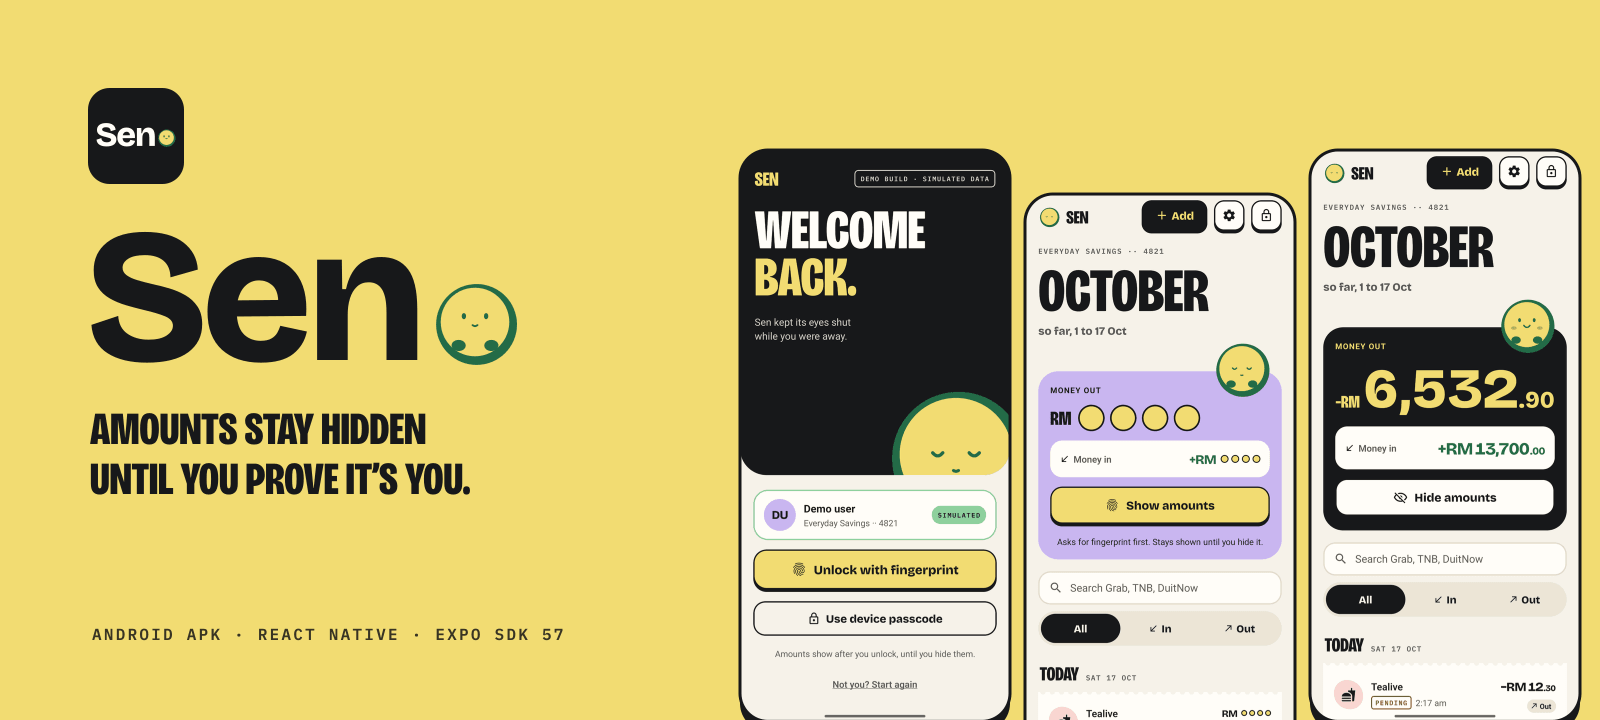
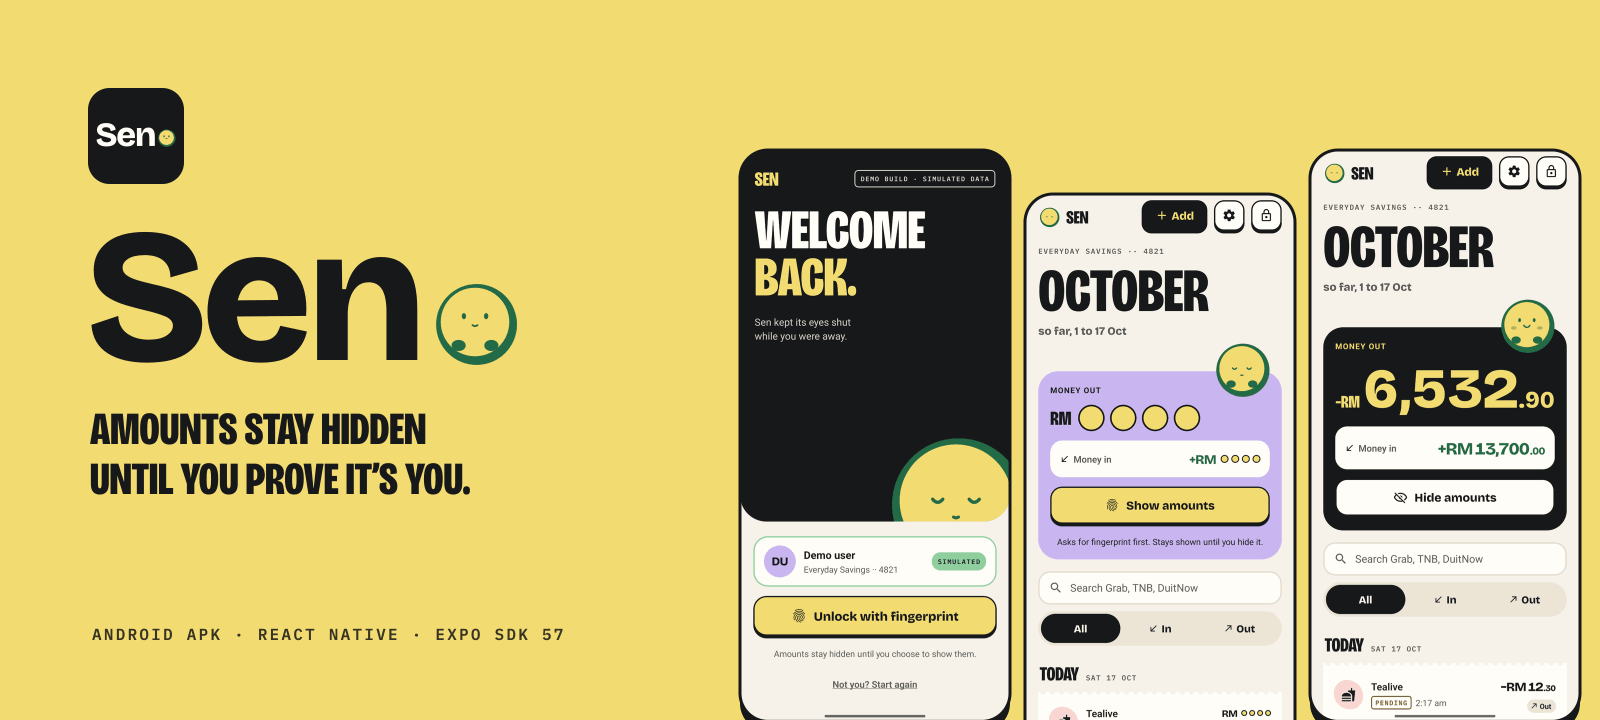
docs: add fresh phone screenshots, drop the stale lock shots and update the test count

Changed region(s): [[0.4375, 0.55, 0.6562, 0.9167]]

diff --git a/README.md b/README.md
@@ -9,7 +9,7 @@
 ![TypeScript strict](https://img.shields.io/badge/TypeScript-strict-3178c6)
 ![Expo SDK 57](https://img.shields.io/badge/Expo-SDK%2057-000020)
 ![Platform Android](https://img.shields.io/badge/platform-Android-3ddc84)
-![1,699 tests](https://img.shields.io/badge/tests-1%2C699%20passing-2e7d32)
+![1,781 tests](https://img.shields.io/badge/tests-1%2C781%20passing-2e7d32)
 
 Sen the coin is the app's mascot. It keeps its eyes shut while amounts are hidden, and it is the friendly part of a security-first app. The security model comes first in this README and the mascot comes after.
 
@@ -112,19 +112,22 @@ Sen has no server, so everything it protects is on the phone. [ARCHITECTURE.md](
 
 ## Features
 
-Screens from a real Android phone. The top row is the light theme and the bottom row is the dark theme.
+Screens from a real Android phone. In the first table the top row is the light theme and the bottom row is the dark theme.
 
 | Hidden amounts | Shown amounts |
 | :---: | :---: |
 | <img src="docs/media/screens/history-masked-light.png" alt="History, light theme, amounts shown as four coins" width="240"> | <img src="docs/media/screens/history-shown-light.png" alt="History, light theme, amounts shown" width="240"> |
 | <img src="docs/media/screens/history-masked-dark.png" alt="History, dark theme, amounts shown as four coins" width="240"> | <img src="docs/media/screens/history-shown-dark.png" alt="History, dark theme, amounts shown" width="240"> |
 
-<!-- SHOT: lock-light, lock-dark. Lock with the single Unlock key (the old shot has the two-key layout) -->
-<!-- SHOT: history-header. History header with the "?" key and the privacy explainer sheet -->
-<!-- SHOT: add-amount. Add amount step with the sizing tiers -->
-<!-- SHOT: add-date. Add details step with the picked date -->
-<!-- SHOT: detail-timeline. Detail with the completed Authorised, Pending, Posted timeline -->
-<!-- SHOT: error-offline. History full error with Retry -->
+| Lock, light | Lock, dark | Privacy explainer |
+| :---: | :---: | :---: |
+| <img src="docs/media/screens/lock-idle-light.png" alt="Lock screen, light theme, with one Unlock with fingerprint key and the demo user card" width="240"> | <img src="docs/media/screens/lock-idle-dark.png" alt="Lock screen, dark theme, with one Unlock with fingerprint key" width="240"> | <img src="docs/media/screens/privacy-light.png" alt="The privacy sheet, How Sen keeps amounts private, listing masked by default, fingerprint to show them, locked when you leave and nothing leaves this phone" width="240"> |
+
+The History header (see the screens above) has three keys: **?** opens the privacy sheet, the padlock locks Sen and the cog opens Settings.
+
+| Add amount | Add details | Detail | Error with Retry |
+| :---: | :---: | :---: | :---: |
+| <img src="docs/media/screens/add-amount-light.png" alt="Add amount step with the keypad, the amount RM 99,999.99 shrunk to its smallest size tier and the over-limit message" width="240"> | <img src="docs/media/screens/add-date-light.png" alt="Add details step with a description, categories and a picked date of Sat 3 Oct" width="240"> | <img src="docs/media/screens/detail-timeline-light.png" alt="Transaction detail for TNB electricity with a completed Authorised, Pending, Posted timeline" width="240"> | <img src="docs/media/screens/error-offline-light.png" alt="History full error saying Cannot load your history, with a Retry key and a Reviewer settings link" width="240"> |
 
 - **Unlock.** One key. With a strong biometric enrolled, Android shows the fingerprint or face sheet, and the same sheet offers the screen lock (PIN, pattern or password). With none, the screen lock opens directly. On Android 9 and 10 a lockout hands over to the screen lock. There is no password inside Sen, and a phone with no screen lock is refused (D28, D40). The 60 second prompt timeout says "the check timed out" (D36).
 - **Masked by default.** Every amount is `RM` and four coins. **Show amounts** asks for biometrics. Amounts re-mask when Sen locks or restarts (D27). Settings' Hide amounts switch reads On after every unlock, and turning it off asks for biometrics.
@@ -150,11 +153,11 @@ Sen reacts to what the security layer is doing. These clips come from a physical
 | Check | Command | What it covers |
 | --- | --- | --- |
 | Everything CI runs | `npm run check` | Typecheck, lint, the Jest suite and the performance benches |
-| Unit and component tests | `npm test` | 1,699 tests in 112 suites on `jest-expo` and React Native Testing Library. The database runs real SQL through a `node:sqlite` adapter |
+| Unit and component tests | `npm test` | 1,781 tests on `jest-expo` and React Native Testing Library. The database runs real SQL through a `node:sqlite` adapter |
 | Motion | `npm run test:motion` | Sen's moments and the shared components, at literal values |
 | Release safety | `npm run release:auth-check` | The dev auth override is absent from a production bundle |
 
-Tests call the code the way a user does. The security properties in [ARCHITECTURE.md](ARCHITECTURE.md#tests-d16) each have a named test, for example `masking.test.tsx` (no digit in the rendered tree while masked), `session.test.tsx` and `lock-flow.test.tsx`. The count came from `npm run check` on the `readme` branch, rebased on `main` at b29d7d6.
+Tests call the code the way a user does. The security properties in [ARCHITECTURE.md](ARCHITECTURE.md#tests-d16) each have a named test, for example `masking.test.tsx` (no digit in the rendered tree while masked), `session.test.tsx` and `lock-flow.test.tsx`. The count came from `npm run check` on the `readme` branch, rebased on `main` at 5dc6956.
 
 **On a real phone.** The author drives an arm64 Android phone with [Maestro](https://maestro.mobile.dev) flows from `.maestro/`, which agents use to verify their work. `npm run device:verify` runs every flow, and `npm run device:shots` captures every gallery screen into `shots/runs/<timestamp>/png`. Both need a phone set up as described in [CLAUDE.md](CLAUDE.md). The screenshots and clips on this page come from that loop, and `node scripts/media.mjs` crops them. The flows are not a shipped end-to-end suite, and the unit tests are the suite.
 
